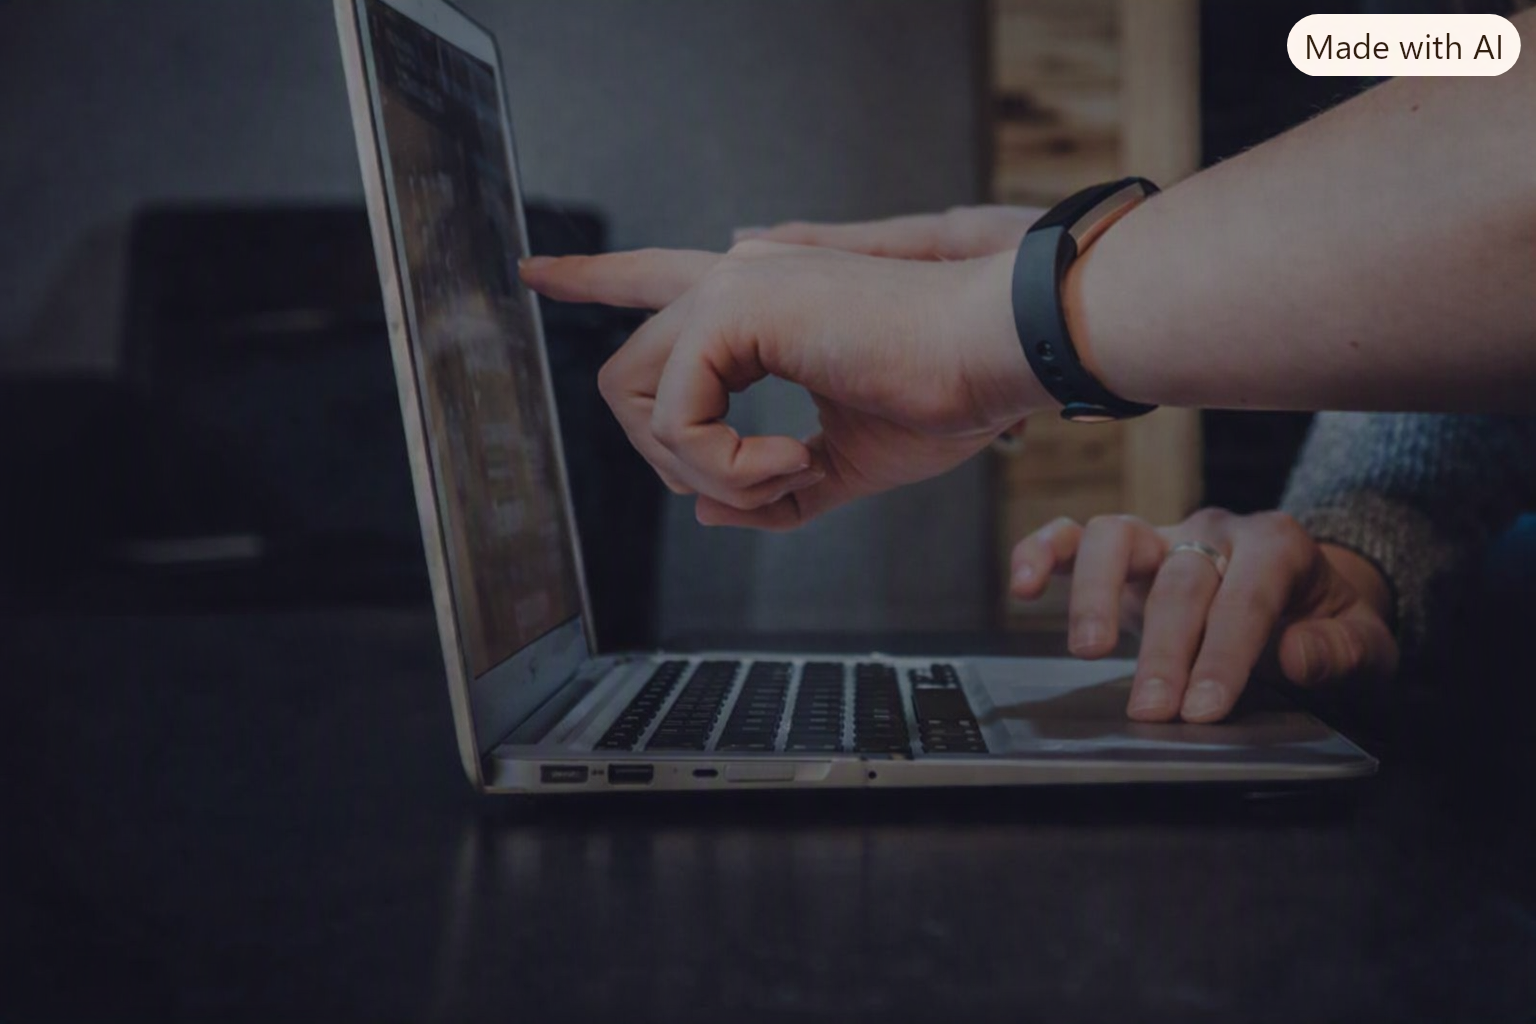
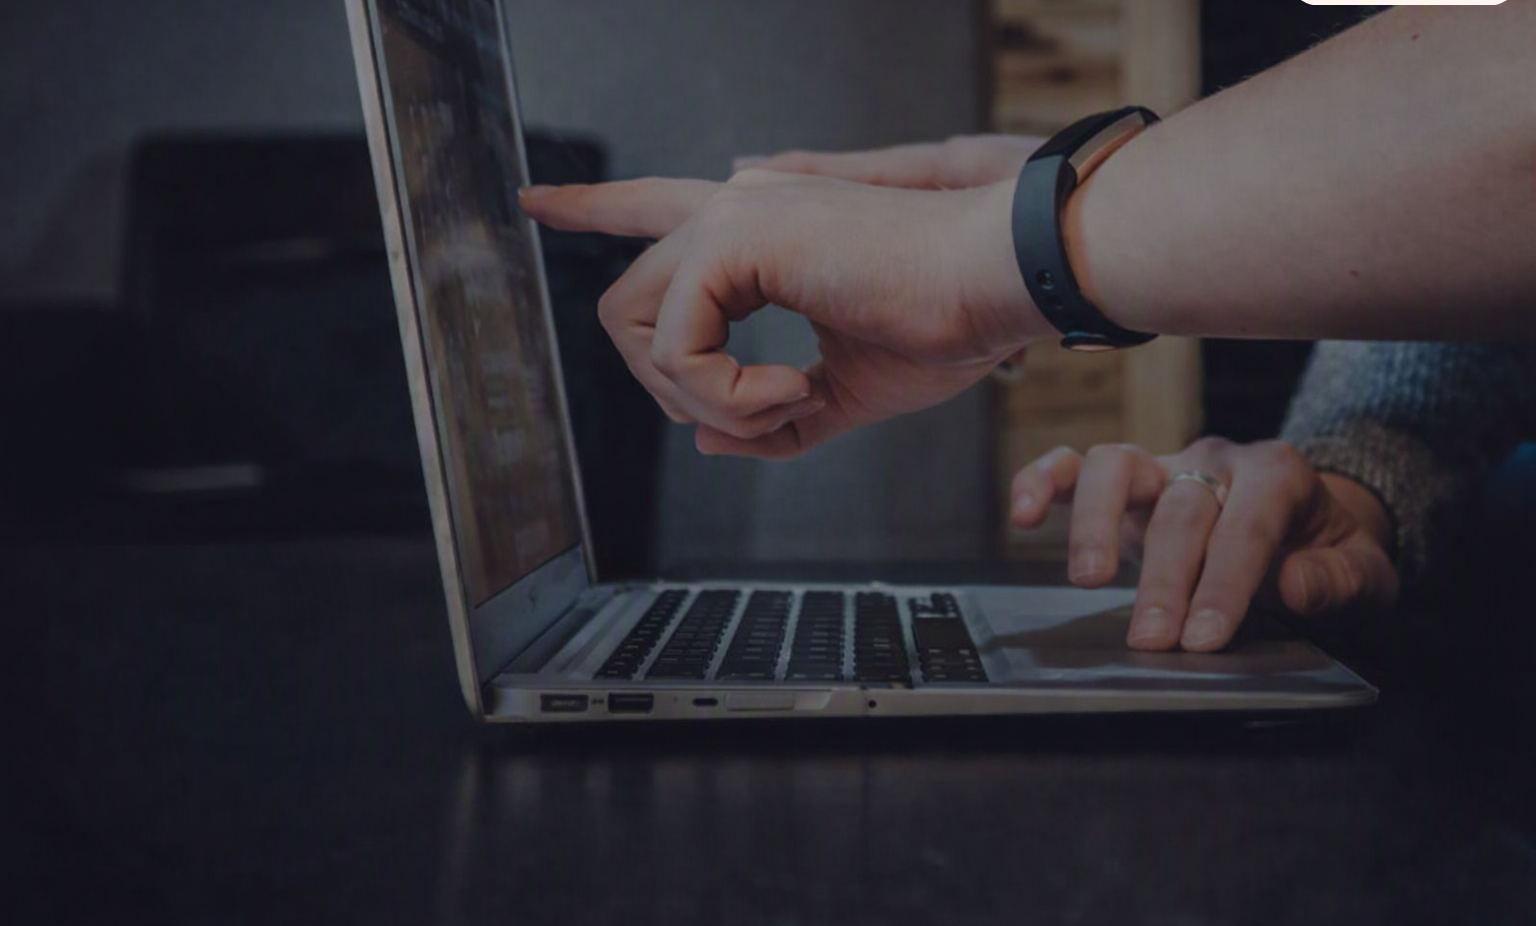
Add files via upload

diff --git a/style.css b/style.css
@@ -156,7 +156,7 @@ body{
     position: absolute;
     width: 100%;
     height: 400px;
-    background-image: url(copilot_20261002_110709.png);
+    background-image: url(Copilot_20261002_110709.png);
     background-size: cover;
     background-position: center;
     box-shadow: 10px 10px 10px rgb(124, 124, 124);
